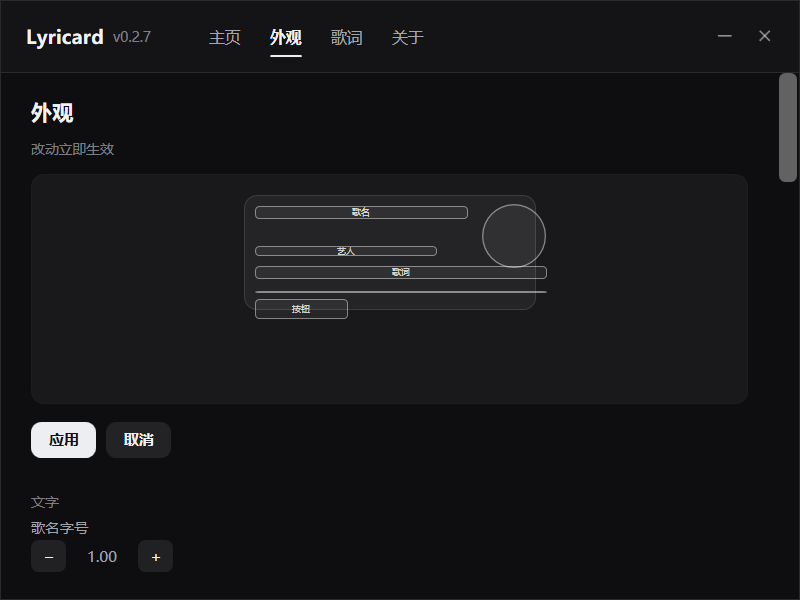
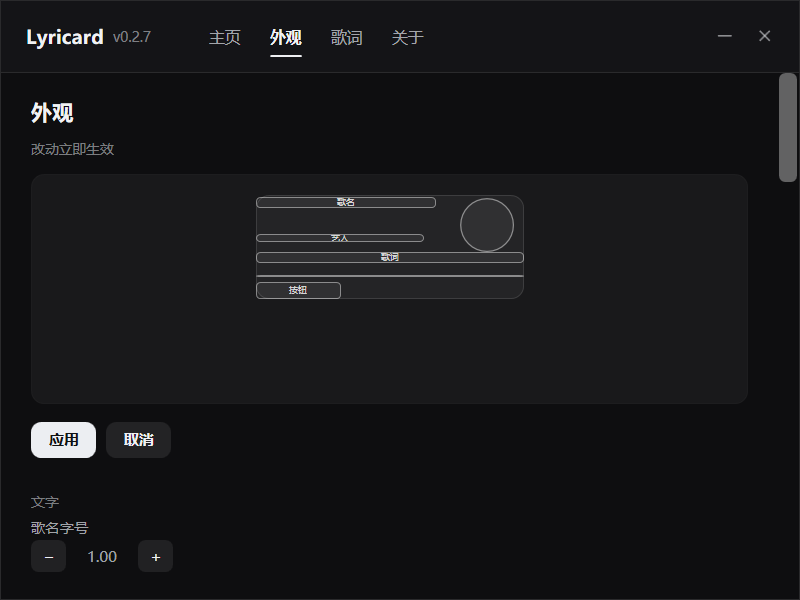
fix(board): drop the editor's leftover inset so both views share the origin
CardPreview still offset every box by pad+border while the card itself had already
been made padding-free, so the board was drawn 16/12 logical units down-right of
where the card draws the same module. Both sides now start at (0,0).

Changed region(s): [[0.3125, 0.33, 0.6875, 0.54], [0.3125, 0.33, 0.5312, 0.36]]

diff --git a/src/CardPreview.cs b/src/CardPreview.cs
@@ -157,8 +157,10 @@ namespace Amc
             // The card's own Border padding is where content really starts; the board must use the
             // same origin or every box sits (16,12) model units away from where the card draws it.
             CardMetrics sm = LayoutEngine.Scaled(baseMetrics, s);
-            _padX = sm.PadX + sm.Border;
-            _padY = sm.PadY + sm.Border;
+            // The card is padding-free now: its content origin IS the window origin, so the board
+            // must not add any inset either. Keep the fields (drag maths reads them) at zero.
+            _padX = 0.0;
+            _padY = 0.0;
 
             _canvas.Width = lay.CardW * _s;
             _canvas.Height = lay.CardH * _s;
